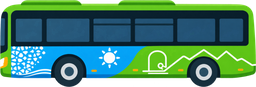
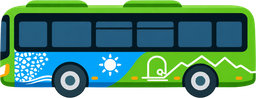
chore(ride): refine Tetouan bus marker proportions and compact 48px map size

Changed region(s): [[0.0, 0.0, 1.0, 1.0], [0.2188, 0.6207, 0.3125, 0.6897], [0.2188, 0.9195, 0.2812, 0.9885]]

diff --git a/src/components/TransitMap.tsx b/src/components/TransitMap.tsx
@@ -1075,15 +1075,15 @@ export function TransitMap({
       wrapper.dataset.testid = 'ride-live-gps-dot';
       wrapper.style.zIndex = '20';
       wrapper.className =
-        'relative flex items-center justify-center w-16 h-9 pointer-events-none select-none';
+        'relative flex items-center justify-center w-14 h-8 pointer-events-none select-none';
 
       const halo = document.createElement('span');
       halo.className =
-        'absolute bottom-0.5 w-9 h-3 rounded-full bg-[#01A069]/35 dark:bg-[#34D399]/40 animate-ping';
+        'absolute bottom-0.5 w-8 h-2.5 rounded-full bg-[#01A069]/35 dark:bg-[#34D399]/40 animate-ping';
 
       const shadow = document.createElement('span');
       shadow.className =
-        'absolute bottom-0.5 w-12 h-2 rounded-full bg-[#041626]/25 dark:bg-black/55 blur-[1.5px]';
+        'absolute bottom-0.5 w-10 h-1.5 rounded-full bg-[#041626]/25 dark:bg-black/55 blur-[1.5px]';
 
       const busImg = document.createElement('img');
       busImg.src = '/tetouan-bus-marker.png';
@@ -1091,7 +1091,7 @@ export function TransitMap({
       busImg.setAttribute('aria-hidden', 'true');
       busImg.draggable = false;
       busImg.className =
-        'relative w-[58px] h-auto object-contain transition-transform duration-300 drop-shadow-[0_2px_4px_rgba(4,22,38,0.35)] dark:drop-shadow-[0_2px_6px_rgba(0,0,0,0.75)]';
+        'relative w-[48px] h-auto object-contain transition-transform duration-300 drop-shadow-[0_2px_4px_rgba(4,22,38,0.35)] dark:drop-shadow-[0_2px_6px_rgba(0,0,0,0.75)]';
       busImg.style.transform = busFacingRightRef.current ? 'scaleX(-1)' : 'scaleX(1)';
 
       wrapper.appendChild(halo);
